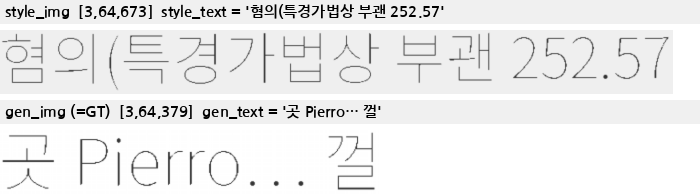
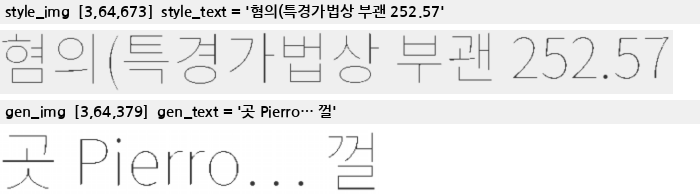
Redraw the I/O overview so it matches what the two losses actually cover
이전 그림은 CE 정답을 "vae_encoder input" 이라고 적어 CE 가 텐서 값을 비교하는 것처럼
읽혔다. CE 정답은 값이 아니라 latent 열 폭에서 기계적으로 찍히는 라벨이고, MSE 와
달리 마스크가 없어 SOG/EOG/pad 까지 전 위치에 걸린다.

새 그림이 담은 것:
- 디코더 입력 시퀀스 줄 — 이 시퀀스가 곧 GT (SOS 는 query_emb 이후에 붙으므로 제외)
- 빨강/회색 범례가 MSE 기준임을 명시 (빨강 = specials==2, 회색 = MSE 마스크/CE 라벨만)
- pixel crop [SOG+1:] — style prefix 까지 붙여 decode 한 뒤 픽셀에서 자른다는 순서

01_inputs.png 의 "gen_img (=GT)" 는 뺐다. style latent 도 똑같이 MSE 정답이라
gen 만 GT 인 것처럼 읽히던 라벨이다 (생성 스크립트 쪽 문자열도 함께 수정).

Changed region(s): [[0.09, 0.5258, 0.54, 0.6186]]

diff --git a/docs/_gen_module_io.py b/docs/_gen_module_io.py
@@ -101,7 +101,7 @@ def main():
         _label_row(f"style_img  [3,64,{si.shape[1]}]  style_text = '{s0['style_text']}'",
                    max(si.shape[1], 700), bold=True),
         _bgr(si),
-        _label_row(f"gen_img (=GT)  [3,64,{gi.shape[1]}]  gen_text = '{s0['gen_text']}'",
+        _label_row(f"gen_img  [3,64,{gi.shape[1]}]  gen_text = '{s0['gen_text']}'",
                    max(gi.shape[1], 700), bold=True),
         _bgr(gi),
     ]
